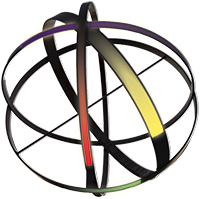
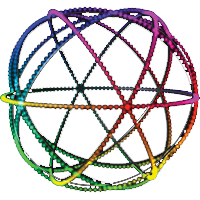
updates to ui for art mode

diff --git a/style/app.css b/style/app.css
@@ -52,10 +52,10 @@ table tr.pending { background-color: #e2e2e2; color: #999 }
 
 /* Home Screen */
 .home img.globe { display: block; margin: 80px auto 0 auto; }
-.home img.med { display: block; max-width: 200px; margin: 8% auto 0 auto; }
+.home img.med { display: block; max-width: 200px; margin: 20px auto 0 auto; }
 
 /* Tutorial */
-.tutorial h2 { font-weight: normal; font-size: 170%; padding: 5%; line-height: 130%; }
+.tutorial h2 { font-weight: normal; font-size: 170%; padding: 60px 0 10px 0; line-height: 130%; }
 .tutorial h2 em { text-transform: uppercase; }
 .tutorial h3 { font-weight: normal; margin-top: 20px; margin-bottom: 2px; font-size: 150% }
 .tutorial p { }
@@ -76,6 +76,7 @@ table tr.pending { background-color: #e2e2e2; color: #999 }
 /* Credits */
 .credits { text-align: left; }
 .credits img.med { display: block; max-width: 200px; margin: 8% auto; }
+.credits img.media-object { max-width: 60px; }
 .credits p { color: #000; }
 
 /* Leaderboard */
@@ -118,7 +119,8 @@ table tr.pending { background-color: #e2e2e2; color: #999 }
 .play-active .scored h3 { font-size: 180%; margin-top: 20px; }
 .play-active .scored p { font-size: 100%; }
 
-.bar-footer-play { height: 70px; }
+.bar-footer-play { height: 60px; background-color: red }
+.bar-footer-play h3 { padding: 20px 0 0; font-size: 120%; }
 .bar-footer-play table { }
 .bar-footer-play thead { font-size: 200%; color: #fff; }
 .bar-footer-play thead th { padding-top: 10px; }

diff --git a/js/app/play.js b/js/app/play.js
@@ -62,7 +62,8 @@ function initPlayAs(){
     // show active play ui
     $('.bar-footer-play').show();
     $('.play-active').show();
-    startCountdown(3);
+    // startCountdown(3);
+    showGameBoard();
   });
 }
 
@@ -114,7 +115,7 @@ function startTime(){
 }
 
 function showGameBoard(){
-  $('.color_block').show();
+  // $('.color_block').show();
   $('.tip').show();
 }
 
@@ -122,8 +123,8 @@ function updateColors(color_name){
   $('.my_color').html(my_color);
   var color_hex = colorMap(my_color);
   var color_label = colorLabelMap(my_color);
-  $('.color_block').css('background-color', color_hex);
-  $('.color_block h3').css('color', color_label);
+  $('.bar-footer-play').css('background-color', color_hex);
+  $('.bar-footer-play h3').css('color', color_label);
 }
 
 $(document).ready(function(){

diff --git a/play.php b/play.php
@@ -2,16 +2,19 @@
     <header class="bar bar-nav">
       <a href="#popover"><h2 class="title">SPINXSW <span class="icon icon-caret"></span></h2></a>
     </header>
-    <div class="bar bar-standard bar-header-secondary">
+    <!-- <div class="bar bar-standard bar-header-secondary">
       <div class="color_block hide"><h3>You're Player: <span class="my_color">red</span></h3></div>
-    </div>
+    </div> -->
 		<div id="popover" class="popover">  
 		  <header class="bar bar-nav">
-		    <h1 class="title">Game Paused</h1>
+		    <!-- <h1 class="title">Game Paused</h1> -->
+		    <h1 class="title">Controls</h1>
 		  </header>
 		  <ul class="table-view">
-		    <li class="table-view-cell">Resume Play</li>
-		    <a href="home.php" transition="slide-in"><li class="table-view-cell">Exit Game</li></a>
+		    <!-- <li class="table-view-cell">Resume Play</li> -->
+		    <!-- <li class="table-view-cell"><a href="home.php" transition="slide-in">Exit Game</a></li> -->
+		    <li class="table-view-cell"><a href="play.php" transition="slide-in">Pick a New Color</a></li>
+		    <li class="table-view-cell"><a href="home.php" transition="slide-in">Exit to Menu</a></li>
 		  </ul>
 		</div>
     <div class="content">
@@ -33,9 +36,13 @@
 				<div class="countdown">
 					<h2 id="countdown"></h2>
 				</div>
-				<div class="tip hide">
+				<div class="tip-old hide">
 					<h2>Play!</h2>
 					<p>Find your color<br>on the globe</p>
+				</div>
+				<div class="tip hide">
+					<h2>Shake<br>or Spin</h2>
+					<p>To create patterns!</p>
 				</div>
 				<div class="scored hide">
 					<h2>+50<span class="pts">pts</span></h2>
@@ -50,9 +57,15 @@
 				</div>
 			</div>
 			<div class="bar bar-standard bar-footer">
-			  <a id="play_as" class="btn btn-block">PLAY AS <span class="my_color">red</span></a>
+			  <a id="play_as" class="btn btn-block">PLAY WITH <span class="my_color">red</span></a>
 			</div>
+			<!-- <div class="bar bar-standard bar-footer">
+			  <a id="play_as" class="btn btn-block">PLAY AS <span class="my_color">red</span></a>
+			</div> -->
 			<div class="bar bar-standard bar-footer bar-footer-play hide">
+	      <div><h3>PLAY WITH <span class="my_color">red</span></h3></div>
+			</div>
+			<!-- <div class="bar bar-standard bar-footer bar-footer-play hide">
 			  <table>
 					<thead>
 						<tr>
@@ -67,6 +80,6 @@
 						</tr>
 					</tbody>
 				</table>
-			</div>
+			</div> -->
 		</div>
 <?php include ('partials/after.php'); ?>

diff --git a/tutorial.php b/tutorial.php
@@ -10,29 +10,33 @@
 				  <div class="slide-group">
 				    <div class="slide">
 							<h2>SPINXSW is an<br>interactive exhibit<br>controlled by your<br><em>movements</em>.</h2>
-							<img src="/img/globe.png" class="globe">
+							<img src="/img/globe_lts.png" class="globe">
 				    </div>
 				    <div class="slide">
-							<h2>Spin, shake, or jerk<br>to move your color<br>around the globe!</h2>
+							<h2><em>Shake</em> your phone<br>to create moving<br>color patterns<br>on the globe!</h2>
+							<img src="/img/gesture_shake.png">
+				    </div>
+
+				    <div class="slide">
+							<h2><em>Spin</em> your body<br>to modify the<br>speed and<br>intensity!</h2>
+							<img src="/img/gesture_spin.png">
+				    </div>
+
+				    <!-- <div class="slide">
+							<h2><em>Spin &amp; Shake</em><br>your body/phone<br>to create <em>art</em><br>on the globe!</h2>
 							<img src="/img/gestures.png">
-				    </div>
-				    <div class="slide">
+				    </div> -->
+				    <!-- <div class="slide">
 							<h2>Play &amp; Unlock<br>achievements!</h2>
-							<img src="/img/globe.png" class="globe">
+							<img src="/img/globe_lts.png" class="globe">
 							<h3>&#8220;Around the World&#8221;</h3>
 							<p>Complete 1 full loop around a ring</p>
-				    </div>
+				    </div> -->
 				    <div class="slide">
-							<h2>Try combo moves<br>with other players!</h2>
-							<img src="/img/globe.png" class="globe">
-							<h3>&#8220;Joy Ride&#8221;</h3>
-							<p>Draft behind another player 2 sec</p>
-				    </div>
-				    <div class="slide">
-							<h2>Ready to Begin?</h2>
-							<img src="/img/globe.png" class="globe">
-							<img src="/img/spinxsw_md.png" class="med">
-							<a class="btn btn-block" href="play.php">PLAY SPINXSW</a>
+							<h2><em>Create Art</em><br>as other people&#8217;s<br>colors interact<br>with your own!</h2>
+							<a href="play.php"><img src="/img/color_tap.png"></a>
+							<!-- <h3>&#8220;Joy Ride&#8221;</h3>
+							<p>Draft behind another player 2 sec</p> -->							
 				    </div>
 				  </div>
 				</div>

diff --git a/credits.php b/credits.php
@@ -12,7 +12,7 @@
 					  <li class="table-view-cell table-view-divider">Credits</li>
 					  <li class="table-view-cell media">
 					    <a href="http://www.erikburns.com/" data-transition="slide-in">
-					      <img class="media-object pull-left" src="http://placehold.it/64x64">
+					      <img class="media-object pull-left" src="http://lumieria.com/images/proj_spinxsw/fit_200x200_team_erik.jpg">
 					      <div class="media-body">
 					        Erik Burns-Johansson
 					        <p>Concept Design &amp; Mobile Juice.<br>
@@ -22,7 +22,7 @@
 					  </li>
 					  <li class="table-view-cell media">
 					    <a href="http://www.michaelrienstra.com/" data-transition="slide-in">
-					      <img class="media-object pull-left" src="http://placehold.it/64x64">
+					      <img class="media-object pull-left" src="http://lumieria.com/images/proj_spinxsw/fit_200x200_team_michael.png">
 					      <div class="media-body">
 					        Michael Rienstra
 					        <p>JS, Node, Groove-Shark.<br>
@@ -32,7 +32,7 @@
 					  </li>
 					  <li class="table-view-cell media">
 					    <a href="http://www.lumieria.com/" data-transition="slide-in">
-					      <img class="media-object pull-left" src="http://placehold.it/64x64">
+					      <img class="media-object pull-left" src="http://lumieria.com/images/proj_spinxsw/fit_200x200_team_dave.png">
 					      <div class="media-body">
 					        Dave Loomis
 					        <p>Lights, Metal, Quantum F/X.<br>

diff --git a/about.php b/about.php
@@ -8,8 +8,11 @@
 			<div class="about">
 				<img src="/img/spinxsw_md.png" class="med">
 				<p>SpinXSW is a revolutionary new experience in interactive eMotion.
+					Combining lights, audio, and 100% controlled by your mobile phone, SpinXSW is the ultimate fusion of movement, art,
+					light, and sound. SpinXSW is the creative brain child of Dave Loomis, Erik Burns, and Michael Rienstra,
+					three guys on a mission to explore the boundaries of human-computer interaction, creativity, and the human spirit.</p>
+				<!-- <p>SpinXSW is a revolutionary new experience in interactive eMotion.
 					Combining lights, audio, and 100% controlled by your mobile phone, SpinXSW is the ultimate multi-player dance challenge.
-					Partner up or compete against the other players to top the leaderboard and get your groove on!</p>
-			</div>
+					Partner up or compete against the other players to top the leaderboard and get your groove on!</p> -->			</div>
 		</div>
 <?php include ('partials/after.php'); ?>

diff --git a/menu.php b/menu.php
@@ -9,7 +9,7 @@
 				<img src="/img/spinxsw_md.png" class="med">
 				<div class="card">
 				  <ul class="table-view">
-				    <li class="table-view-cell">
+				    <!-- <li class="table-view-cell">
 							<a href="leaderboard.php" data-transition="slide-in"><span class="media-object pull-left icon icon-person"></span>
 					      <div class="media-body">Leaderboard</div></a>
 						</li>
@@ -20,7 +20,7 @@
 				    <li class="table-view-cell">
 							<a href="settings.php" data-transition="slide-in"><span class="media-object pull-left icon icon-gear"></span>
 					      <div class="media-body">Settings</div></a>
-						</li>
+						</li> -->
 				    <li class="table-view-cell">
 							<a href="about.php" data-transition="slide-in"><span class="media-object pull-left icon icon-info"></span>
 					      <div class="media-body">About</div></a>

diff --git a/partials/before.php b/partials/before.php
@@ -26,7 +26,7 @@
     <script data-main="/js/main-mobile" src="/js/lib/require-2.1.10.min.js"></script>
 
 	  <script src="/js/lib/ratchet-2.0.0/dist/ratchet.js"></script>
-	  <script src="http://ajax.googleapis.com/ajax/libs/jquery/1.10.2/jquery.min.js"></script>
+	  <script src="/js/lib/jquery-2.1.0.min.js"></script>
 	  <script src="/js/app/play.js"></script>
   </head>
   <body>

diff --git a/home.php b/home.php
@@ -6,7 +6,7 @@
     </header>
     <div class="content">
 			<div class="home">
-				<img src="/img/globe.png" class="globe">
+				<img src="/img/globe_lts.png" class="globe">
 				<img src="/img/spinxsw_md.png" class="med">
 			</div>
 			<div class="bar bar-standard bar-footer">
